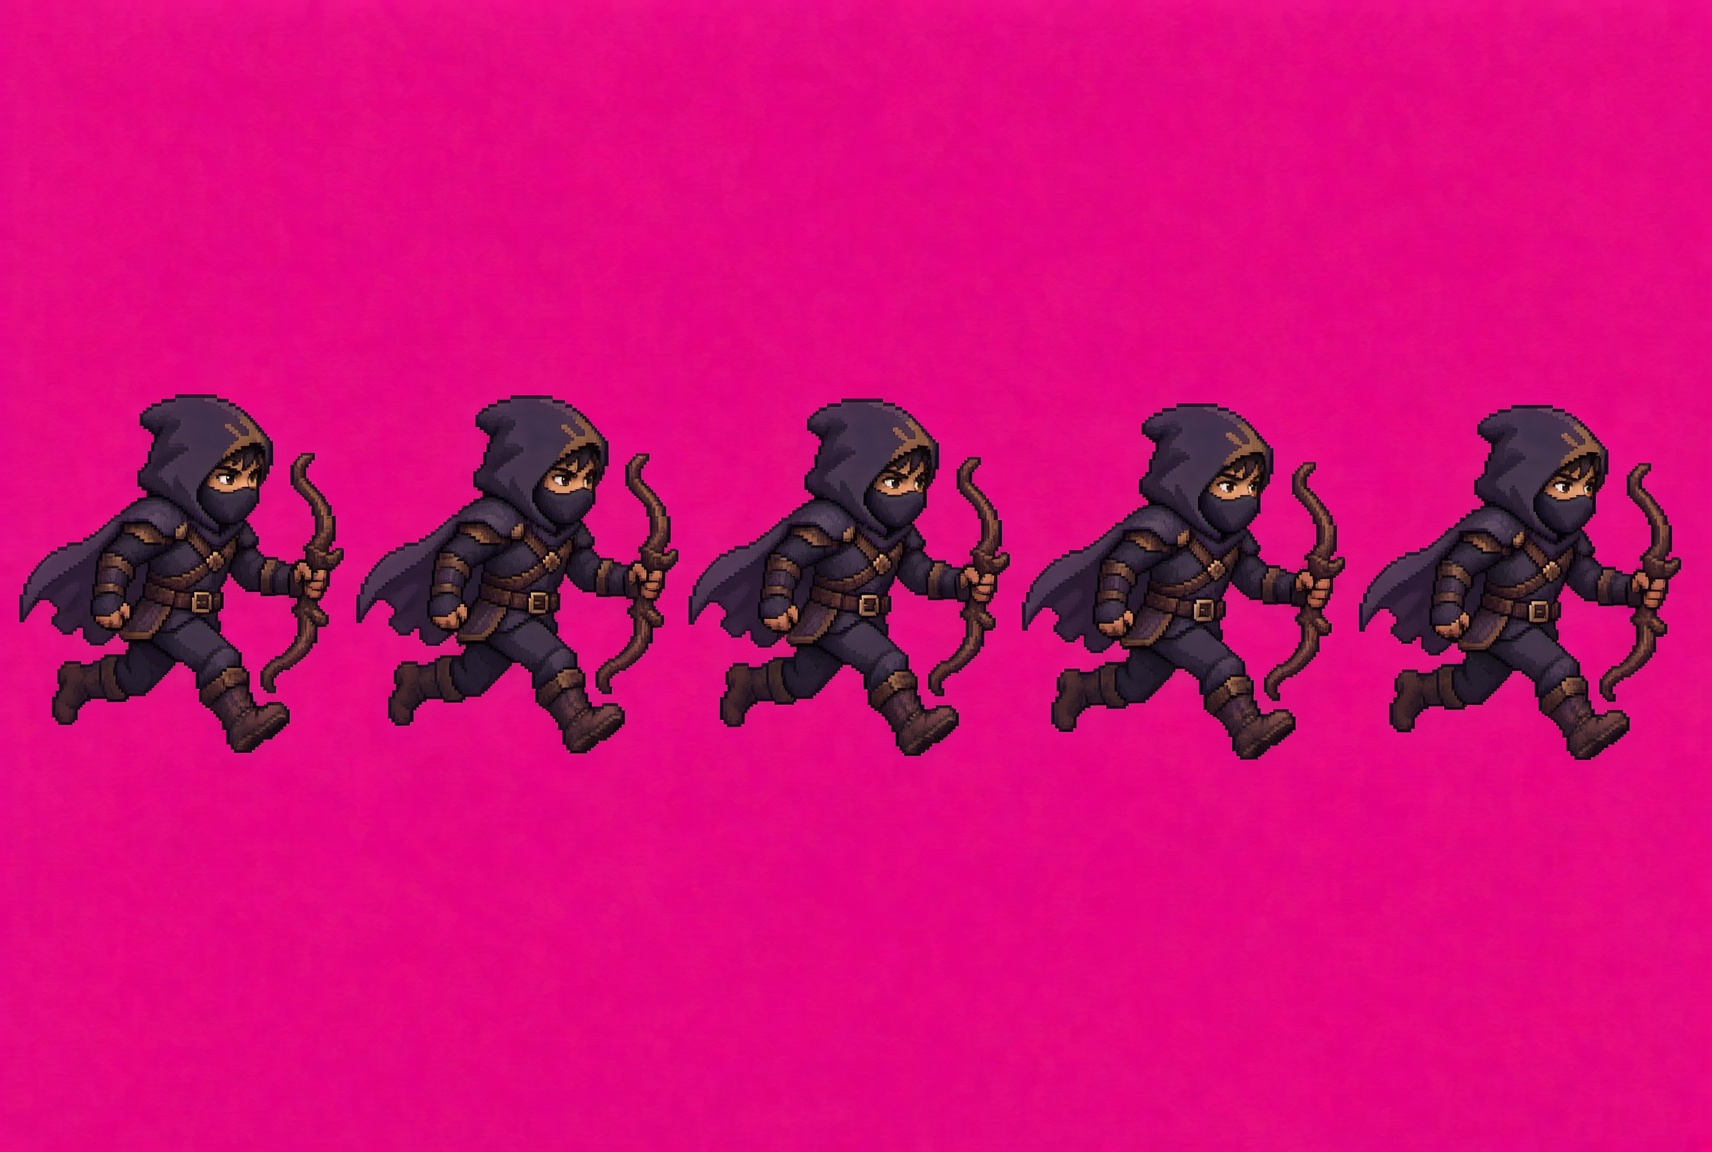
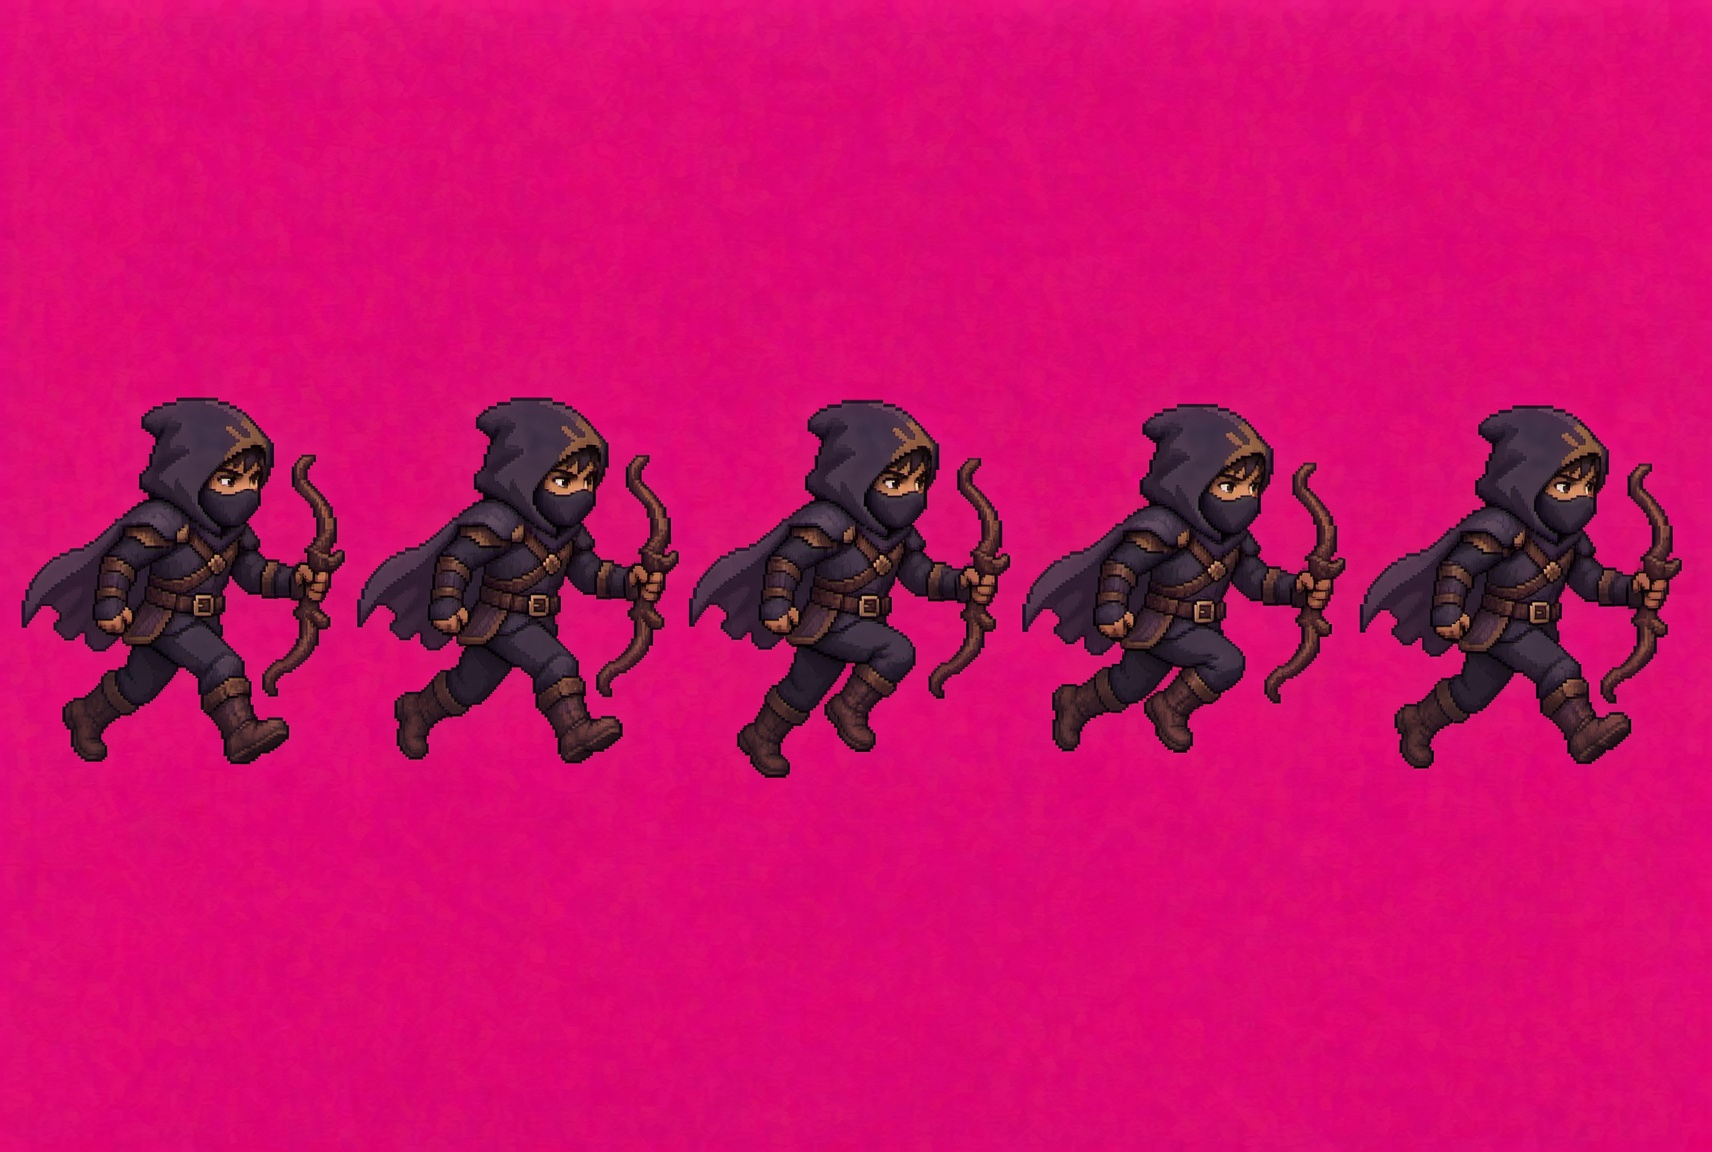
Use Lumen's and Rook's new run sheets with real leg motion
The regenerated sheets draw a different leg position in every frame, so
the stand-in passing frames from runfix.js are no longer used for them
(the helper stays for any future sheet that repeats one pose).

diff --git a/art/heroes/lumen/fix.js b/art/heroes/lumen/fix.js
@@ -2,8 +2,6 @@
 // reference art) long flowing hair. This gives every attack frame the run cycle's long-hair head: the
 // ponytail behind her head is cleared, then the first run frame's head and hair are pasted on, lined up
 // by the face (skin pixels), which, unlike the top of the figure, the raised staff never confuses.
-const { makeRunCycle } = require('../runfix');
-
 module.exports = function fix(frames, helpers) {
   const { FW, FH } = helpers;
   const isSkin = p => p[3] && p[0] > 215 && p[1] > 160 && p[2] > 115 && p[0] - p[2] > 45 && p[0] - p[1] < 70;
@@ -28,6 +26,4 @@ module.exports = function fix(frames, helpers) {
       if (tx >= 0 && ty >= 0 && tx < FW && ty < FH) c.set(tx, ty, p.slice(0, 3));
     }
   }
-  // Her run sheet repeats one stride; build a cycle where the legs come together on the passing frames.
-  frames.run = makeRunCycle(frames.run, helpers, { hip: 0.8 });
 };

diff --git a/src/heroAnims.ts b/src/heroAnims.ts
@@ -14,7 +14,7 @@ export interface HeroAnim {
 export const HERO_ANIMS: Record<string, HeroAnim> = {
   brine: { frame: [59,60], feet: [30,59], headTop: 9, run: 6, attack: 5, hitFrame: 2 },
   ember: { frame: [61,64], feet: [30,63], headTop: 14, run: 5, attack: 5, hitFrame: 2 },
-  lumen: { frame: [71,65], feet: [40,64], headTop: 14, run: 4, attack: 5, hitFrame: 2 },
-  rook: { frame: [57,54], feet: [27,53], headTop: 2, run: 4, attack: 5, hitFrame: 1 },
+  lumen: { frame: [71,65], feet: [40,64], headTop: 14, run: 5, attack: 5, hitFrame: 2 },
+  rook: { frame: [57,55], feet: [27,54], headTop: 3, run: 5, attack: 5, hitFrame: 1 },
   thorn: { frame: [62,55], feet: [28,54], headTop: 2, run: 5, attack: 5, hitFrame: 2 },
 };
